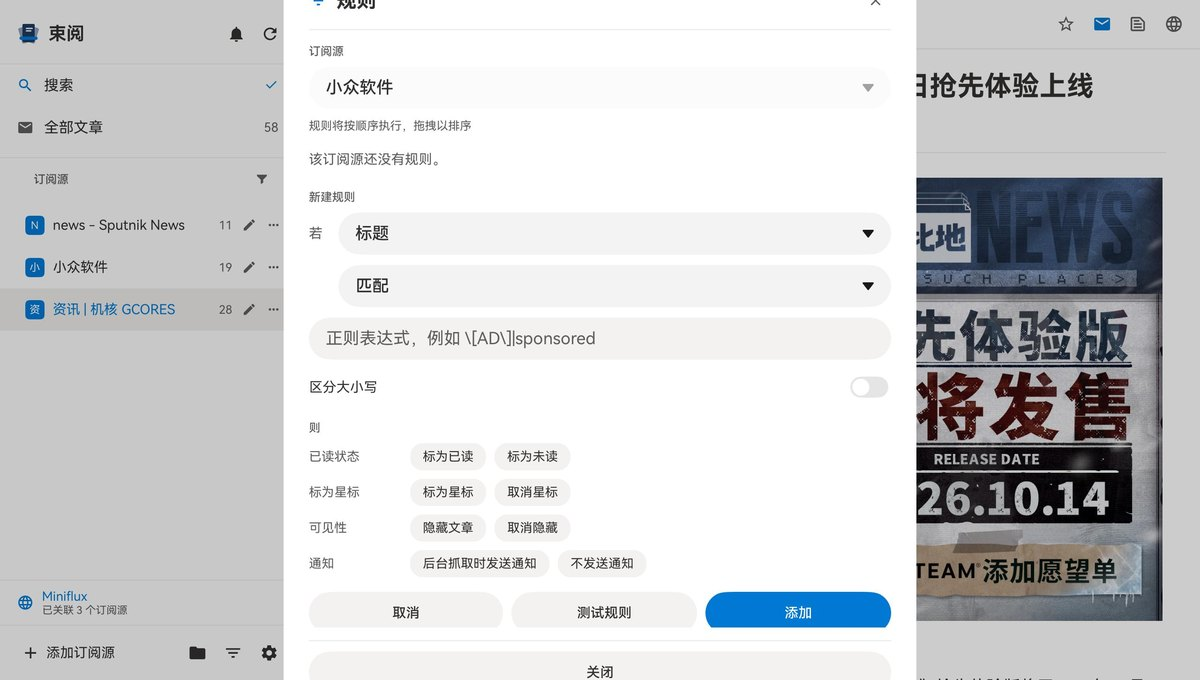
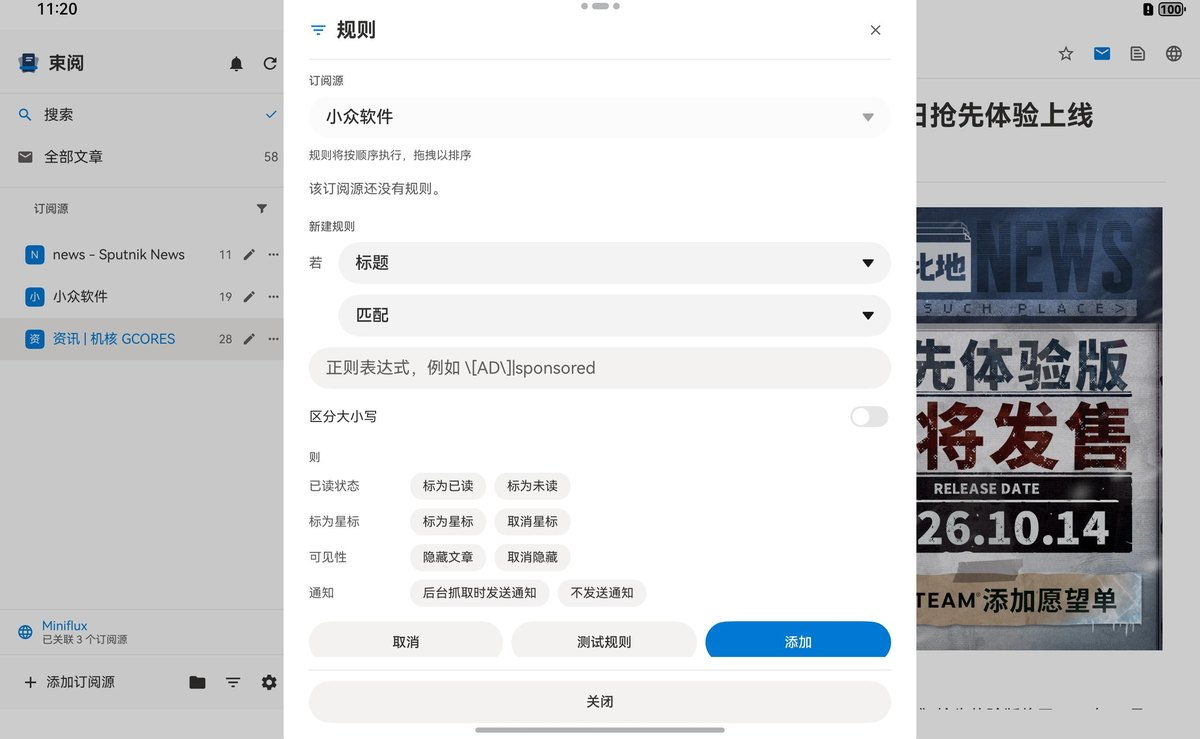
docs: re-shoot the Miniflux panel in the tablet frame
All nine screenshots now come from the same device (tablet, API 13,
2560x1600), so the set no longer mixes two emulator mirrors.

The service panel is filled with the mock endpoint and a placeholder
token (`http://127.0.0.1:8899/v1/` / `test-token-123`); `测试` returns
连接成功 against verify/mock-miniflux.js, reached over `hdc rport`
because this emulator does not share the host loopback the way the 2-in-1
one did.

Neither the real endpoint nor the real token ever entered a frame - the
dialog renders both fields in clear text, so the stored credentials were
cleared with 移除服务 before the shot.

The four dialog screenshots are 24 px taller than the rest: a
CustomDialog is its own window and is taller than the app content area,
so the previous crop shaved the panel title and the bottom button row.

diff --git a/README.md b/README.md
@@ -45,7 +45,7 @@
 | 设置 · 偏好 | 设置 · 数据与清理 | 同步服务 |
 |---|---|---|
 | <img src="docs/images/04-settings-general.jpeg" width="230"> | <img src="docs/images/05-settings-data.jpeg" width="230"> | <img src="docs/images/06-service-miniflux.jpeg" width="230"> |
-| 语言 / 主题 / 字号 | 备份还原 / 清理 | Miniflux（mock 端点示意） |
+| 语言 / 主题 / 字号 | 备份还原 / 清理 | Miniflux（mock 端点，`测试` 通过） |
 
 ## 功能
 
